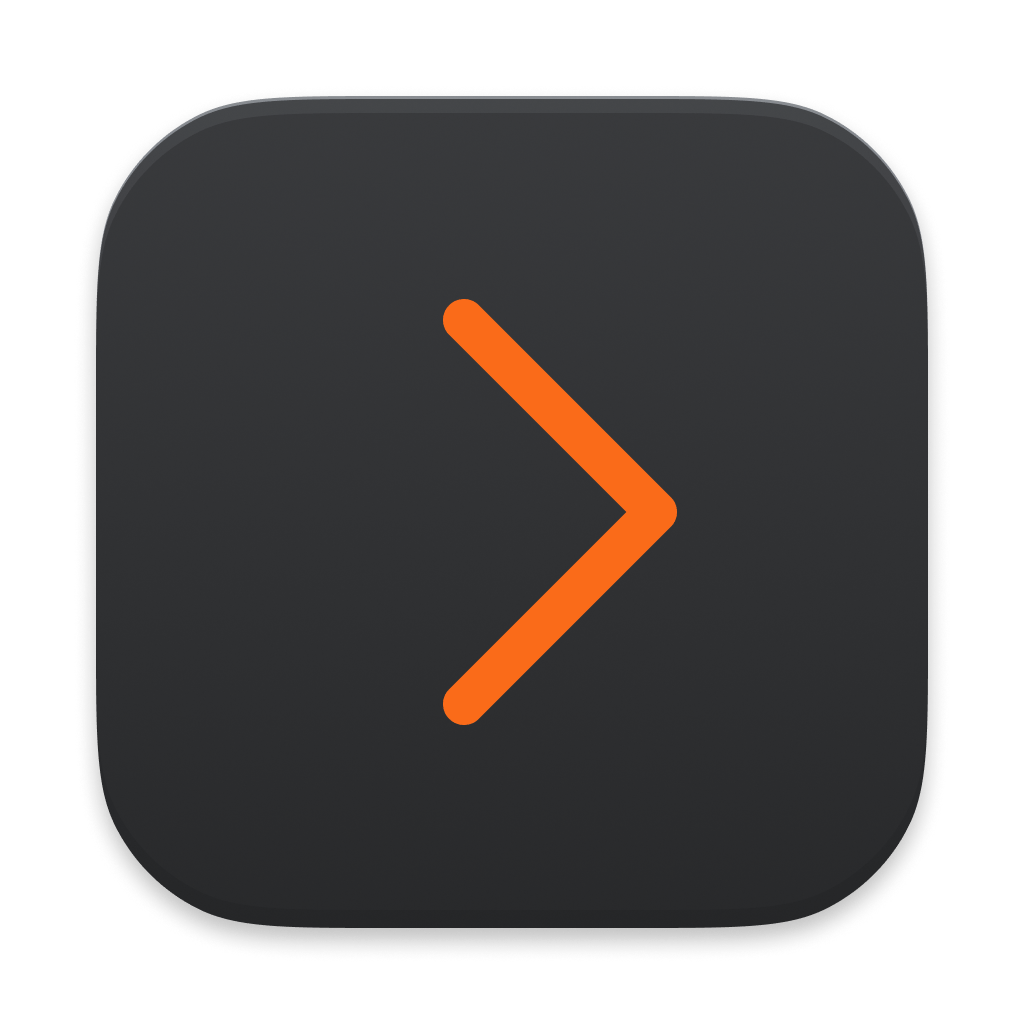
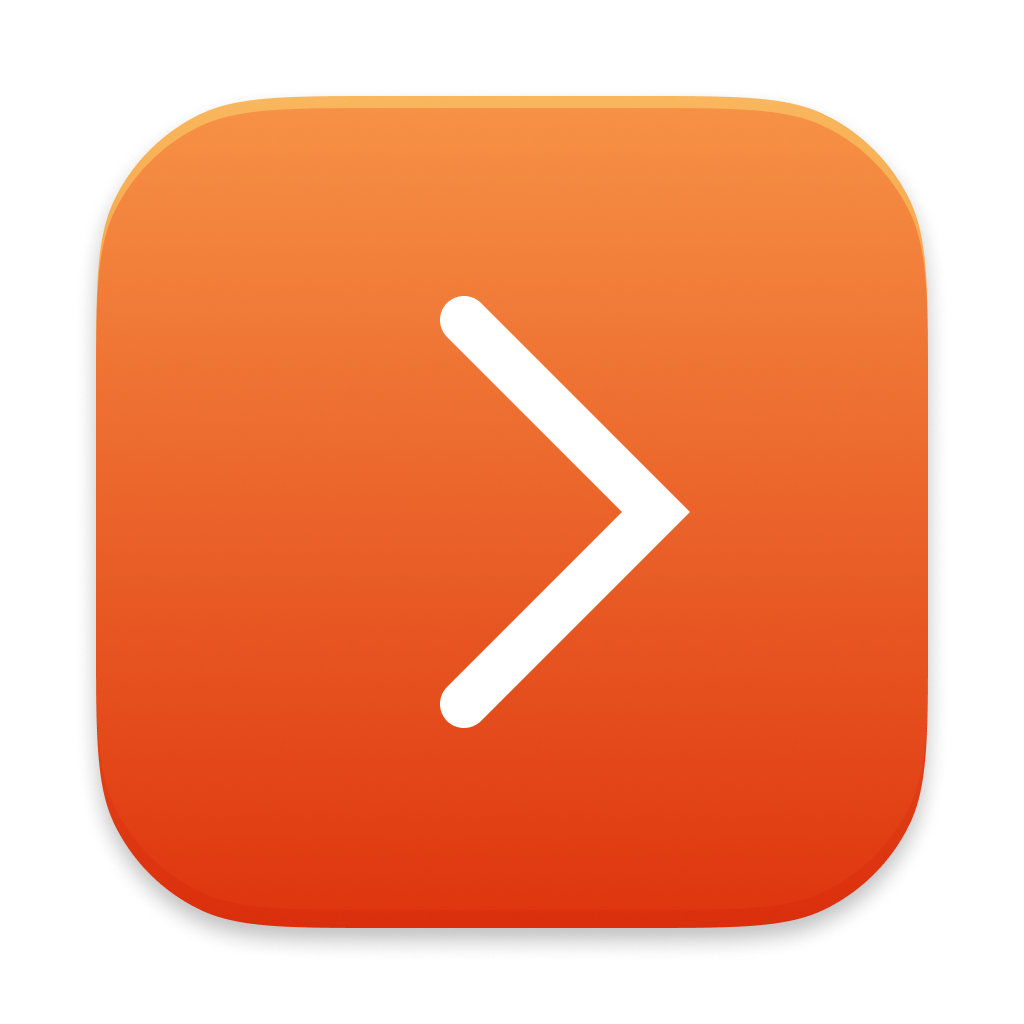
Update less-1024.png

diff --git a/README.md b/README.md
@@ -1,0 +1,25 @@
+# Less
+
+<img src="less-1024.png" width="128" alt="Less icon">
+
+A tiny macOS menu bar app that hides your other menu bar items behind a single chevron.
+
+Tired of a crowded menu bar? Less adds a small toggle button -- click once and everything to its right disappears, click again to bring it all back. Cmd-drag the button to position it anywhere in the menu bar; whatever sits to its right is what gets hidden.
+
+**Requires macOS 15 (Sequoia) or later.**
+
+## Install
+
+```sh
+/bin/bash -c "$(curl -fsSL https://raw.githubusercontent.com/vladstudio/less/main/install.sh)"
+```
+
+## Tips
+
+- Right-click the toggle for the menu (Start on Login, Quit)
+- The toggle position is saved automatically -- drag it once and it stays put
+- The first item to the right of the toggle is the first one hidden; place it accordingly
+
+---
+
+License: MIT